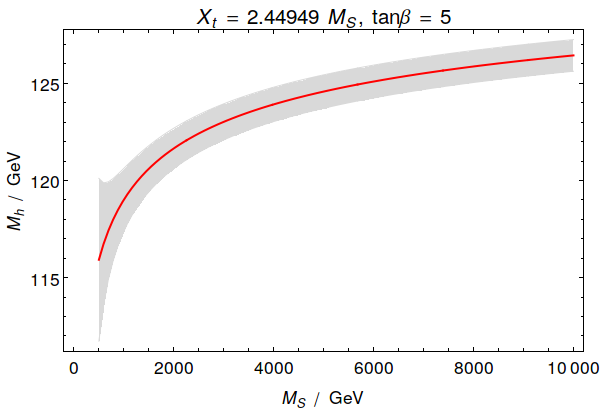
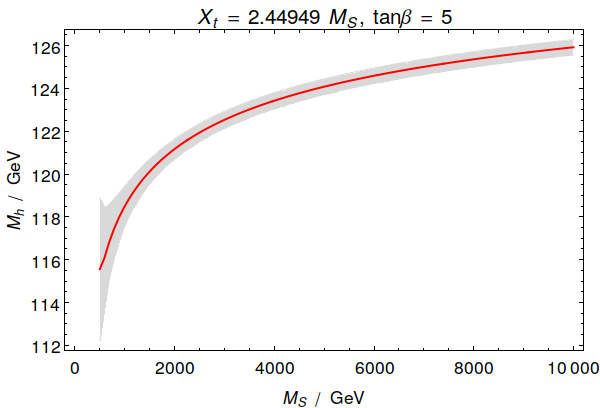
update HSSUSY example script with uncertainty estimate

diff --git a/doc/models/examples/HSSUSY_uncertainty_estimate.m b/doc/models/examples/HSSUSY_uncertainty_estimate.m
@@ -3,11 +3,11 @@ Get["model_files/HSSUSY/HSSUSY_uncertainty_estimate.m"];
 
 settings = {
     precisionGoal -> 1.*^-5,
-    poleMassLoopOrder -> 3,
-    ewsbLoopOrder -> 3,
-    betaFunctionLoopOrder -> 3,
+    poleMassLoopOrder -> 4,
+    ewsbLoopOrder -> 4,
+    betaFunctionLoopOrder -> 5,
     thresholdCorrectionsLoopOrder -> 3,
-    thresholdCorrections -> 123111321
+    thresholdCorrections -> 124111321
 };
 
 smpars = {
@@ -63,12 +63,13 @@ HSSUSYCalcMh[MS_, TB_, Xtt_] :=
             msd2 -> MS^2 IdentityMatrix[3],
             msl2 -> MS^2 IdentityMatrix[3],
             mse2 -> MS^2 IdentityMatrix[3],
-            LambdaLoopOrder -> 2,
+            LambdaLoopOrder -> 3,
             TwoLoopAtAs -> 1,
             TwoLoopAbAs -> 1,
             TwoLoopAtAb -> 1,
             TwoLoopAtauAtau -> 1,
-            TwoLoopAtAt -> 1
+            TwoLoopAtAt -> 1,
+            ThreeLoopAtAsAs -> 1
         }
    ];
 
